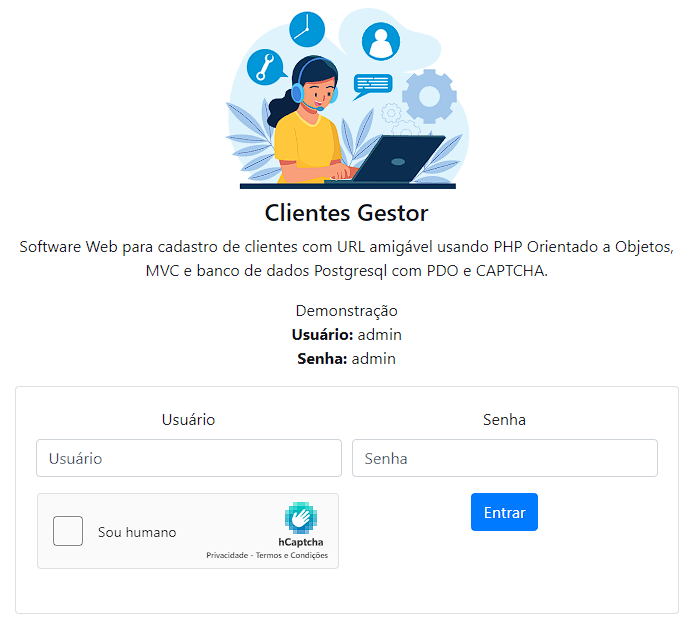
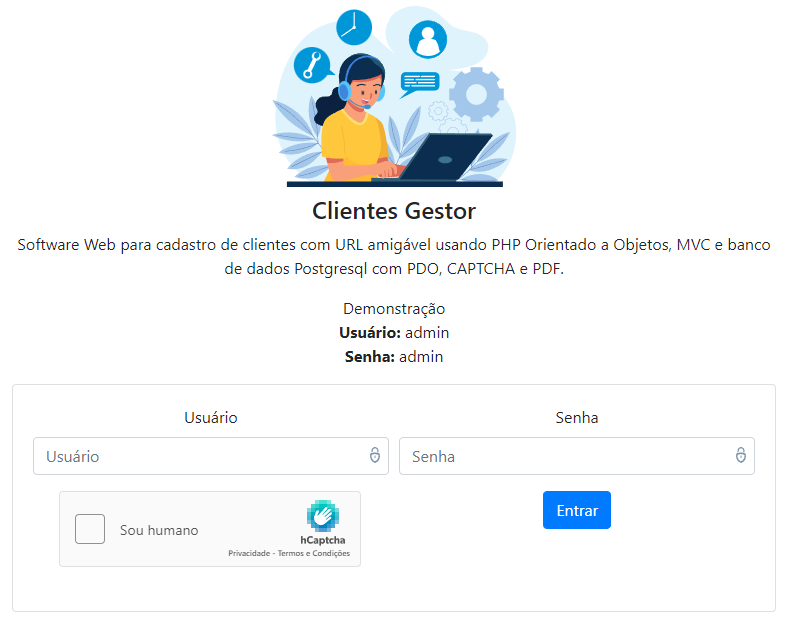
:100: Atualizações gerais

diff --git a/view/user_login.php b/view/user_login.php
@@ -17,7 +17,7 @@
   <div class="mx-auto text-center col-md-8 order-md-1">
     <img src="<?php echo URLROOT; ?>/img/5138237.svg" height="200" width="274" alt="Contato">
     <h4>Clientes Gestor</h4>
-    <p>Software Web para cadastro de clientes com URL amigável usando PHP Orientado a Objetos, MVC e banco de dados Postgresql com PDO e CAPTCHA.</p>
+    <p>Software Web para cadastro de clientes com URL amigável usando PHP Orientado a Objetos, MVC e banco de dados Postgresql com PDO, CAPTCHA e PDF.</p>
     <p>Demonstração
     <br>
     <b>Usuário:</b> admin
